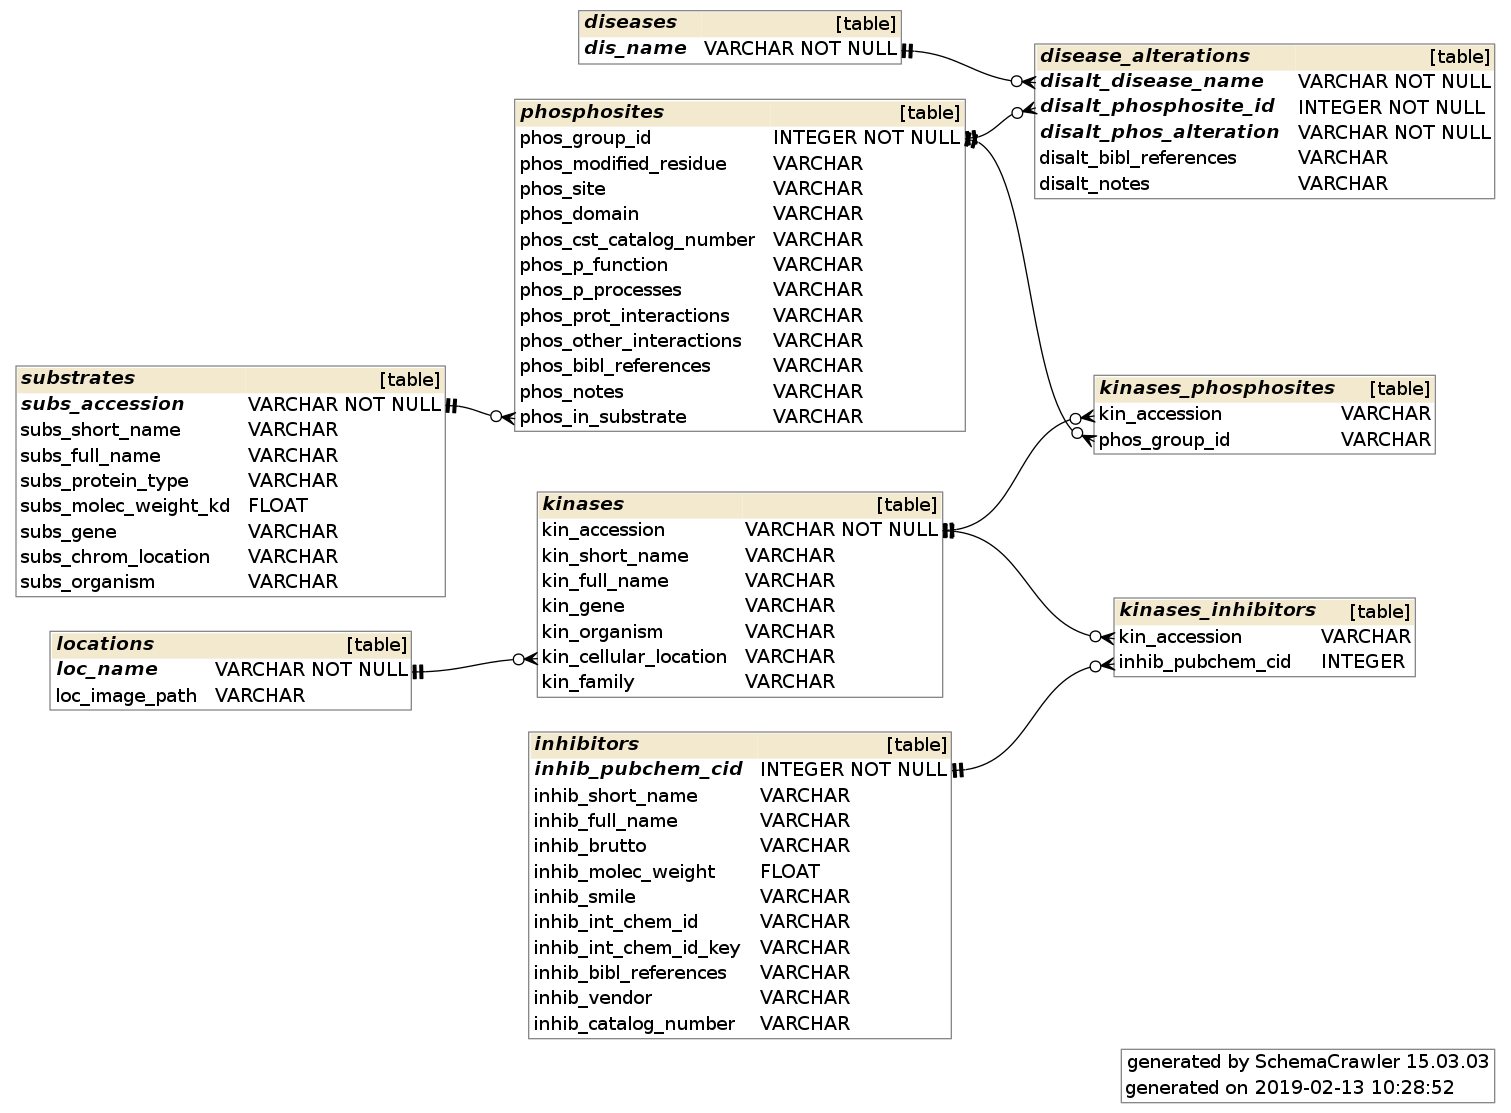
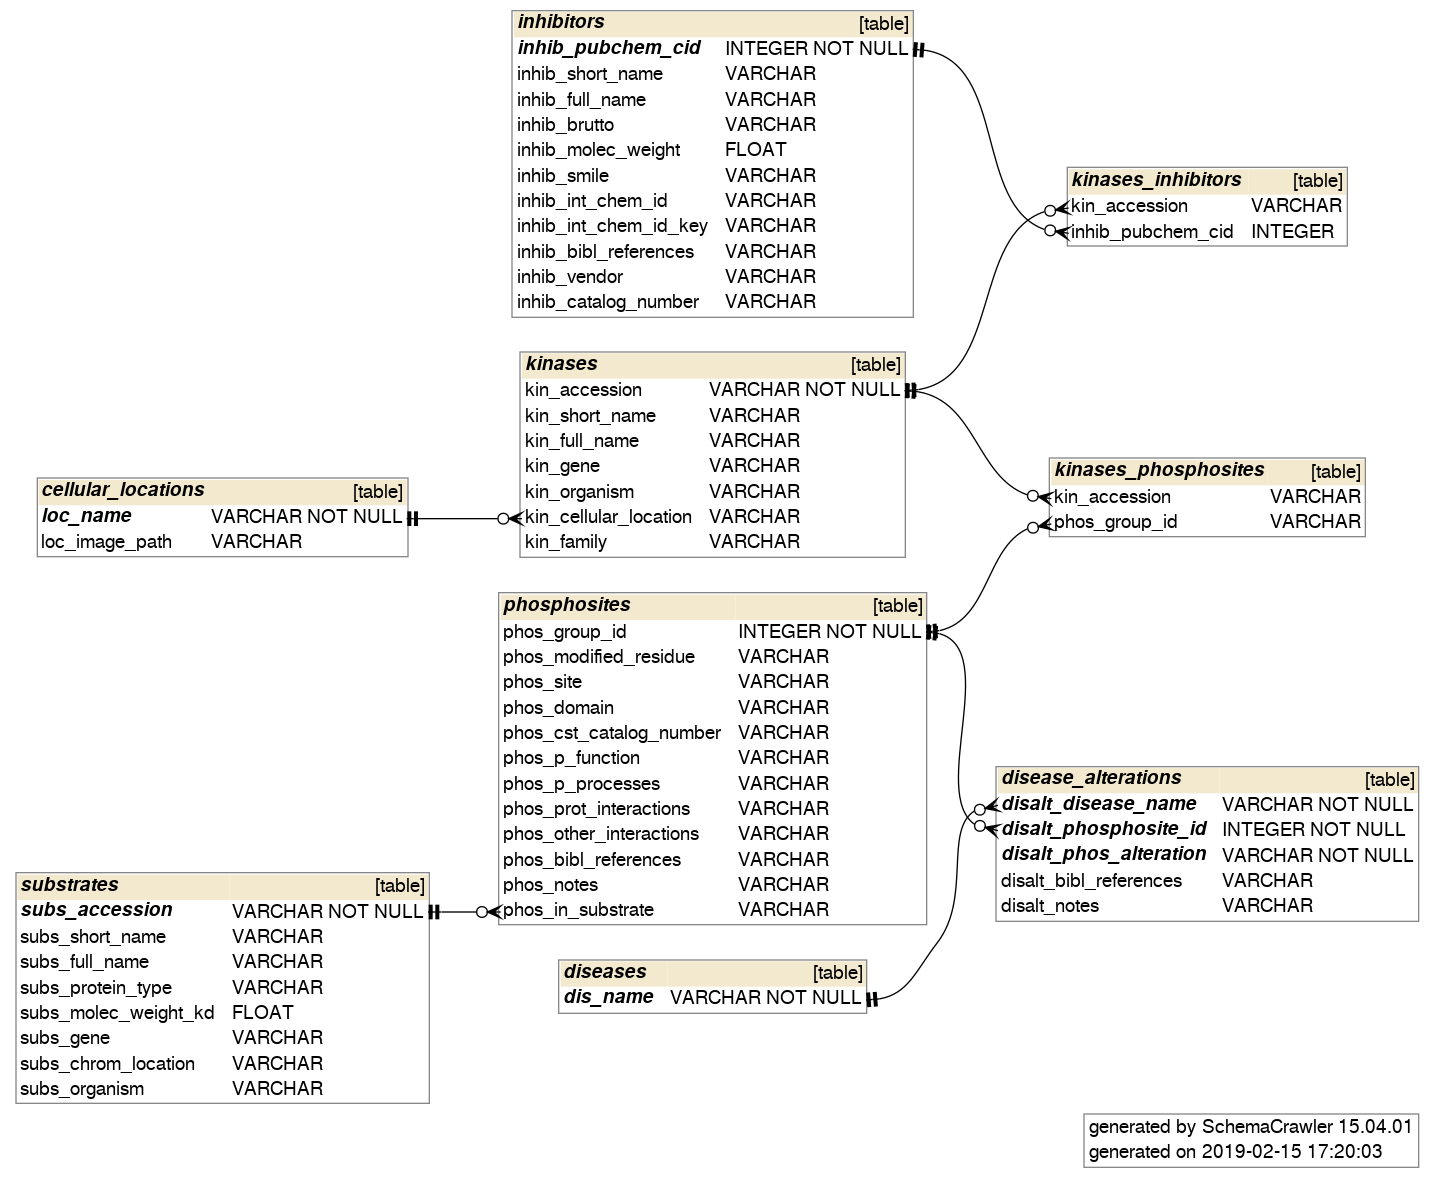
further edits related to Location class refactor to CellularLocation

diff --git a/data_access/sqlalchemy_declarative.py b/data_access/sqlalchemy_declarative.py
@@ -46,7 +46,8 @@ class Kinase(Base):
     # in the first instance of the DB, only human kinases are included
     kin_organism = Column(String)
     # cellular location of the kinase
-    kin_cellular_location = Column(String, ForeignKey('locations.loc_name'))
+    kin_cellular_location = Column(String,
+                                   ForeignKey('cellular_locations.loc_name'))
     # kinase family to which the kinase belongs
     kin_family = Column(String)
 
@@ -404,7 +405,7 @@ class CellularLocation(Base):
     Data source:
     Data source imported to data frame:
     """
-    __tablename__ = 'locations'
+    __tablename__ = 'cellular_locations'
 
     # name of the cellular location, primary key of locations table
     loc_name = Column(String, primary_key=True)
